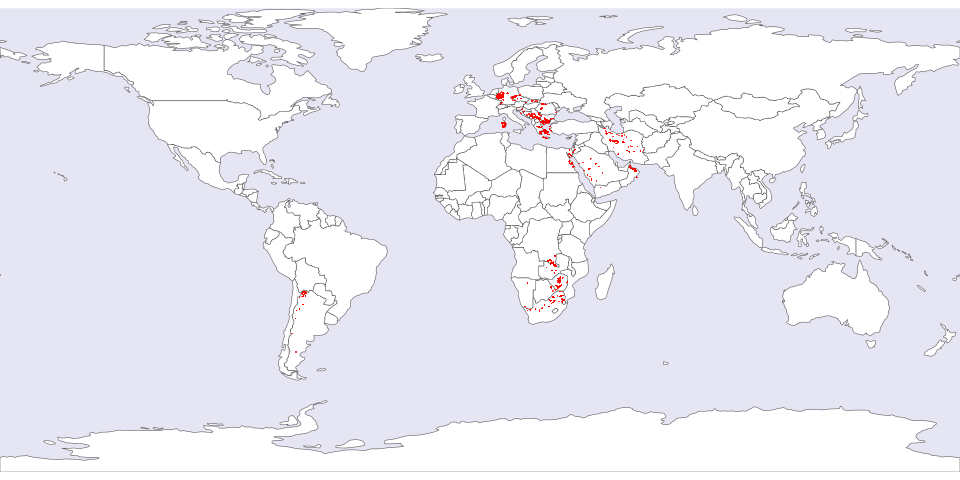
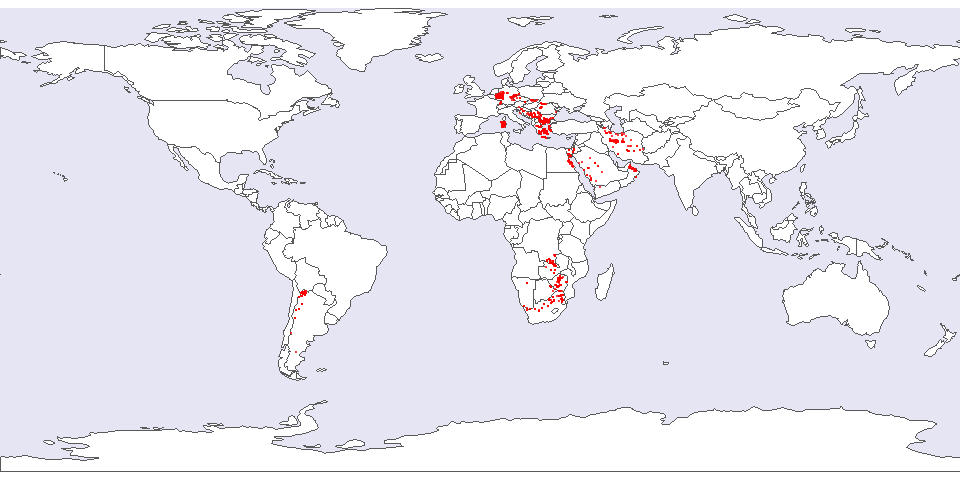
update DOI

diff --git a/README.md b/README.md
@@ -17,7 +17,7 @@ GlobaLID is a Global Lead Isotope Database and aims to facilitate the
 reconstruction of raw material provenances with lead isotopes,
 especially in archaeology. The app provides direct access to and
 convenient interaction with the [GlobaLID
-database](https://doi.org/10.5880/fidgeo.2021.031). You can filter the
+database](https://doi.org/10.5880/fidgeo.2023.043). You can filter the
 database according to your research question, upload own data to compare
 it with GlobaLID, and produce and download publication ready plots.
 Watch our [video tutorial](https://www.youtube.com/watch?v=qwKStMc-068)
@@ -33,7 +33,7 @@ locations: <img src="man/figures/README-map-1.png" width="100%" />
 If you use the GlobaLID app, please cite it as:
 
 - GlobaLID Core Team. (2021). GlobaLID web application V. 1.0, database
-  status: 2023-06-18. <https://globalid.dmt-lb.de/>
+  status: 2023-11-19. <https://globalid.dmt-lb.de/>
 - Klein, S., Rose, T., Westner, K. J., & Hsu, Y.-K. (2022). From OXALID
   to GlobaLID: Introducing a modern and FAIR lead isotope database with
   an interactive application. Archaeometry, 1– 16.
@@ -44,7 +44,7 @@ If you use the GlobaLID app, please cite it as:
     @misc{GlobaLIDCoreTeam.2022,
      author = {{GlobaLID Core Team}},
      year = {2022},
-     title = {{GlobaLID web application V. 1.0, database status: 2023-06-18}},
+     title = {{GlobaLID web application V. 1.0, database status: 2023-11-19}},
      url = {https://globalid.dmt-lb.de/}
     }
 
